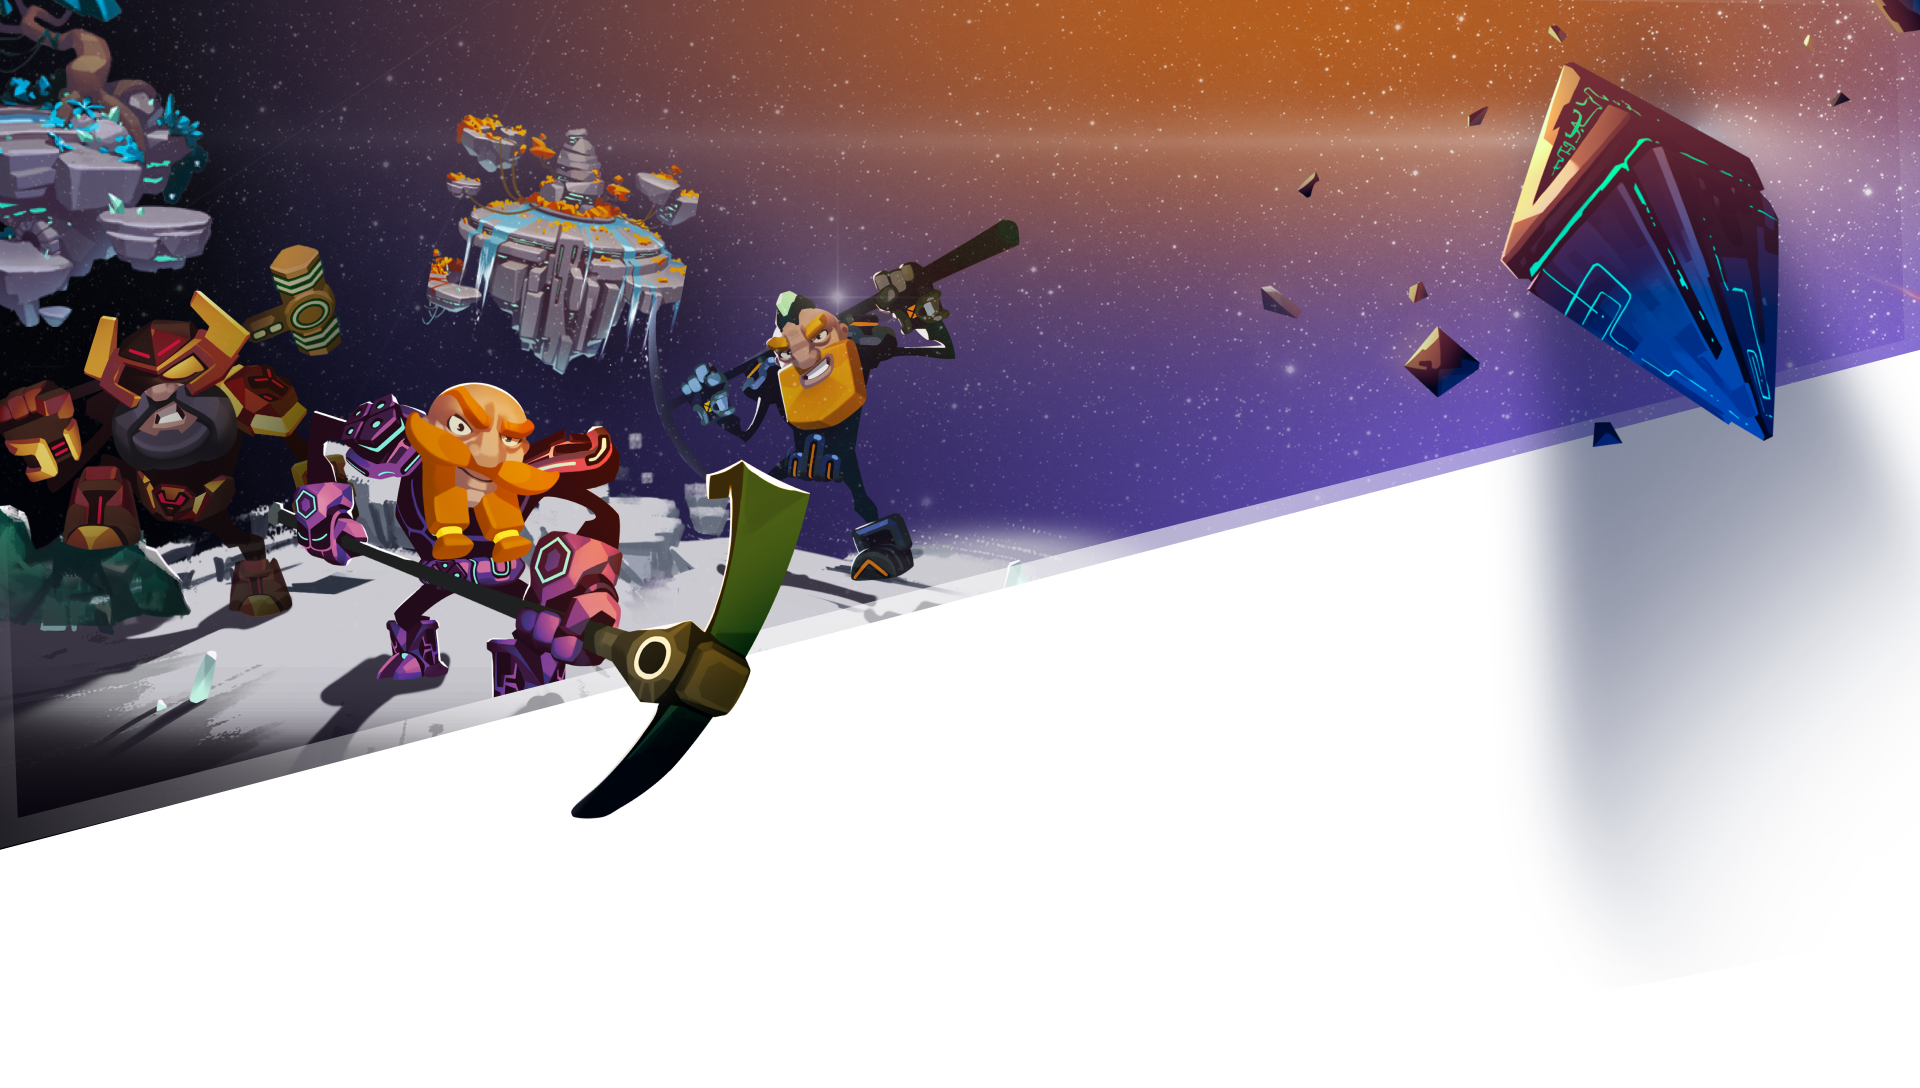
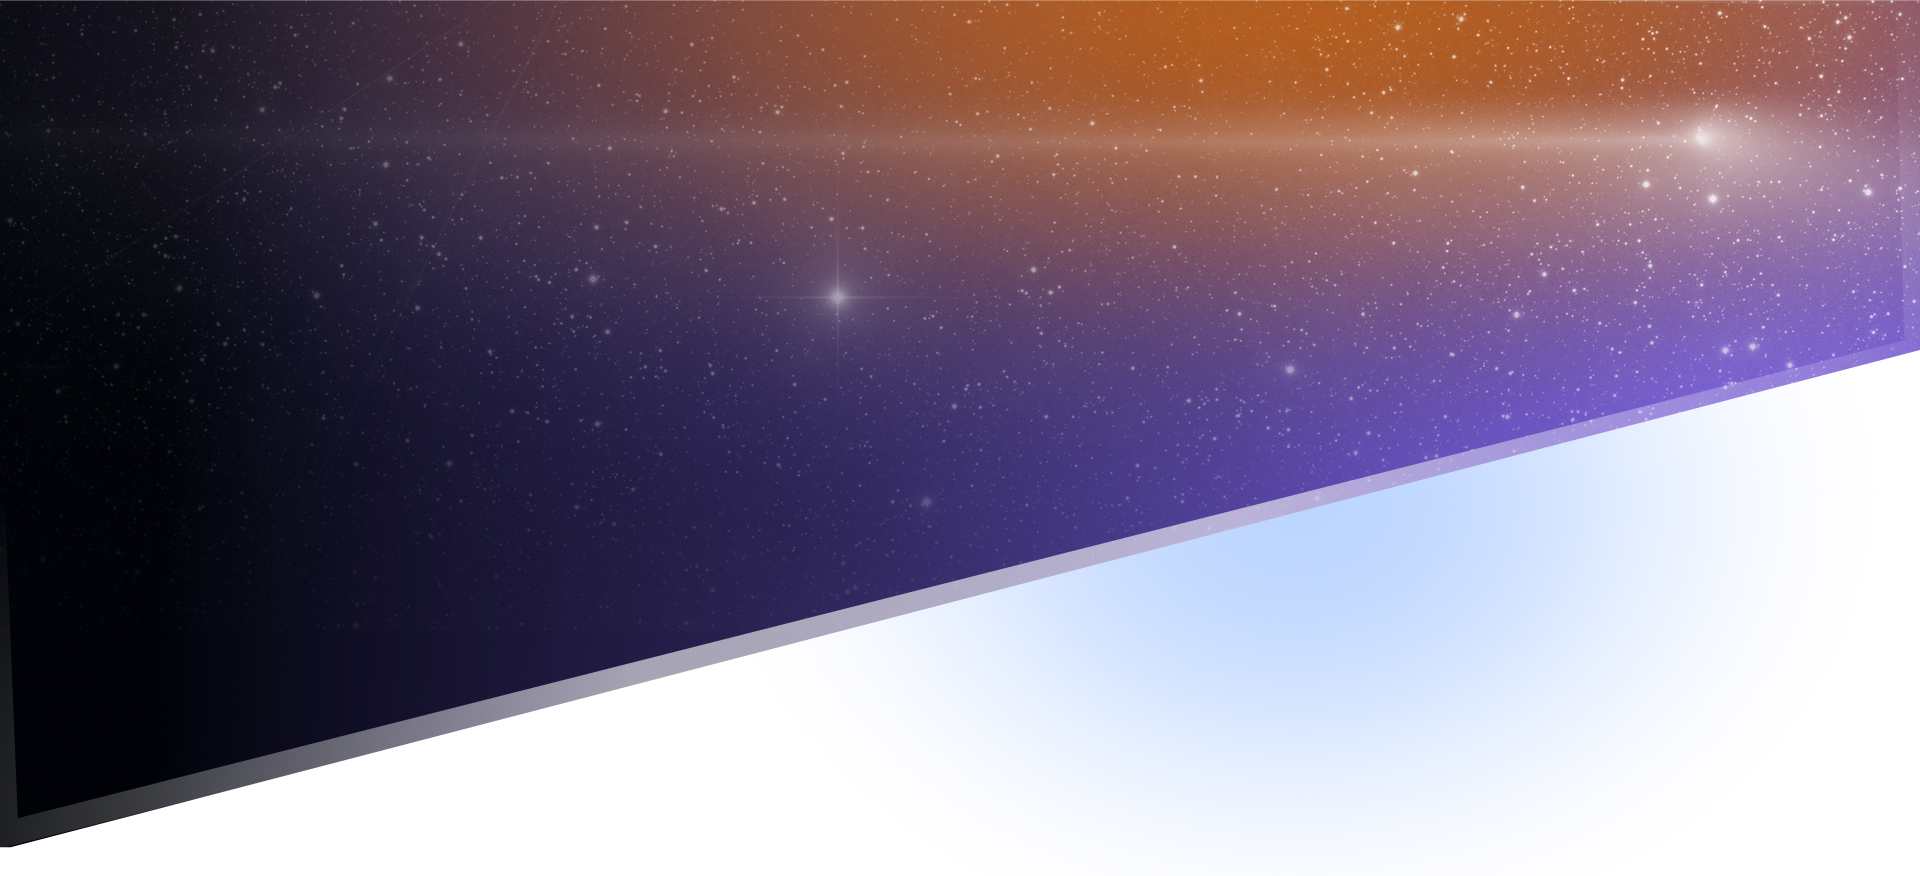
main block animation

diff --git a/src/blocks/modules/main/main.scss b/src/blocks/modules/main/main.scss
@@ -1,29 +1,75 @@
 .main {
-    background: url(./../img/main/bg.png);
+    position: relative;
+    background: url(./../img/main/bg.png) center bottom no-repeat;
     background-size: cover;
+    min-height: 44.2vw;
+    animation: main-bg 20s infinite;
     .container {
         position: relative;
-        height: 100vh;
-        min-height: rem(724);
+        height: 95vh;
+    }
+    .dwarf {
+        position: absolute;
+        width: 100%;
+        height: 100%;
+        bottom: 0;
+        left: 0;
+        animation: main-img 25s infinite;
+        background: url(./../img/main/dwarf.png) center bottom no-repeat;
+        background-size: cover;
+        z-index: 3;
     }
     .logo {
         position: absolute;
-        bottom: 14vw;
-        right: 0;
-        max-width: rem(689);
+        bottom: 6vw;
+        right: 7%;
+        max-width: rem(660);
         width: 100%;
+        z-index: 4;
+        animation: main-logo 15s infinite;
         img {
             width: 100%;
             height: 100%;
         }
     }
+    .island {
+        &-1 {
+            position: absolute;
+            left: 10vw;
+            top: 6.7vh;
+            animation: island-1 32s infinite;
+            z-index: 0;
+        }
+        &-2 {
+            position: absolute;
+            transform: translateX(-50%);
+            top: -12.5vh;
+            left: -4.4vw;
+            z-index: 0;
+            animation: island-2 26s infinite;
+        }
+    }
+    .crystal {
+        position: absolute;
+        right: 0;
+        transform: translateX(20.4%) rotate(-11deg);
+        top: 6vh;
+        z-index: 3;
+        animation: crystal 42s infinite linear;
+    }
+    .table {
+        position: absolute;
+        bottom: 0;
+        left: 0;
+    }
     .label {
         position: absolute;
-        bottom: rem(40);
+        bottom: 0;
         right: rem(200);
         width: 100%;
         max-width: min(rem(500), 100%);
         padding: 20px;
+        z-index: 3;
         p {
             font-weight: 700;
             font-size: rem(28);
@@ -43,10 +89,139 @@
     }
 }
 
+@keyframes island-1 {
+    0% {
+        transform: translate(0%, 0%) scale(1);
+    }
+    25% {
+        transform: translate(16%, -4%) scale(1.1);
+        opacity: .8;
+    }
+    75% {
+        transform: translate(-16%, -4%) scale(1.2);
+        opacity: 1;
+    }
+    100% {
+        transform: translate(0%, 0%) scale(1);
+    }
+}
+
+@keyframes main-logo {
+    0% {
+        transform: scale(1);
+    }
+    50% {
+        transform: scale(1.1);
+    }
+    100% {
+        transform: scale(1);
+    }
+}
+
+@keyframes island-2 {
+    0% {
+        transform: translate(-50%, 0%) scale(1);
+    }
+    25% {
+        opacity: .7;
+        transform: translate(-62%, -4%) scale(1.25);
+    }
+    75% {
+        transform: translate(-50%, -14%) scale(1.1);
+        opacity: 1;
+    }
+    100% {
+        transform: translate(-50%, 0%) scale(1);
+    }
+}
+
+@keyframes crystal {
+    0% {
+        transform: translate(0%, 0%) scale(.8);
+        opacity: .8;
+    }
+    25% {
+        transform: translate(24%, 18%) scale(1.2);
+        opacity: 1;
+    }
+    75% {
+        transform: translate(10%, -9%) scale(.9);
+    }
+    100% {
+        transform: translate(0%, 0%) scale(.8);
+        opacity: .8;
+    }
+}
+
+@keyframes main-bg {
+    0% {
+        background-size: 100% 100%;
+    }
+    50% {
+        background-size: 105% 105%;
+    }
+    100% {
+        background-size: 100% 100%;
+    }
+}
+
+@keyframes main-img {
+    0% {
+        background-size: 100% 100%;
+    }
+    50% {
+        background-size: 105% 105%;
+    }
+    100% {
+        background-size: 100% 100%;
+    }
+}
+
+@media (max-width: $lgDesktopWidth) {
+    .main {
+        animation: none;
+            background-position: left bottom;
+        .dwarf {
+            animation: none;
+            background-position: left bottom;
+        }
+
+    }
+}
+
+@media (max-width: $smDesktopWidth) {
+    .main {
+        .crystal {
+            width: 40%;
+            height: 50%;
+            img {
+                width: 100%;
+                height: 100%;
+            }
+        }
+        .island {
+            &-1, &-2 {
+                width: 40%;
+            height: 50%;
+            min-width: 200px;
+            min-height: 160px;
+            img {
+                width: 100%;
+                height: 100%;
+            }
+            } 
+            &-2 {
+                left: 0;
+                top: 0;
+            }
+        }
+    }
+}
+
 @media (max-width: $tableWidth) {
     .main {
         .logo {
-            top: 14%;
+            top: 15%;
             bottom: auto;
             left: 50%;
             transform: translate(-50%, -50%);
@@ -55,7 +230,27 @@
             text-align: center;
             right: 50%;
             transform: translateX(50%);
-            bottom: rem(100);
+            bottom: rem(200);
+            background-color: rgba(0, 0, 0, 0.55);
+        }
+        .crystal {
+            display: none;
+        }
+        .island {
+            &-1, &-2 {
+                display: none;
+            } 
+        }
+    }
+    @keyframes main-logo {
+        0% {
+            transform: translate(-50%, -50%) scale(1);
+        }
+        50% {
+            transform: translate(-50%, -50%) scale(1.1);
+        }
+        100% {
+            transform: translate(-50%, -50%) scale(1);
         }
     }
 }

diff --git a/src/blocks/modules/token/token.scss b/src/blocks/modules/token/token.scss
@@ -201,7 +201,7 @@
 
 @media (max-width: $smTableWidth) {
     .token {
-        transform: translateY(-180px);
+        padding-top: 20px;
         .title {
             font-size: 34px;
             br {
@@ -213,6 +213,12 @@
         }
         li {
             list-style: none;
+            img {
+                display: none;
+            }
+            span {
+                white-space: nowrap;
+            }
         }
         .container {
             text-align: center;
